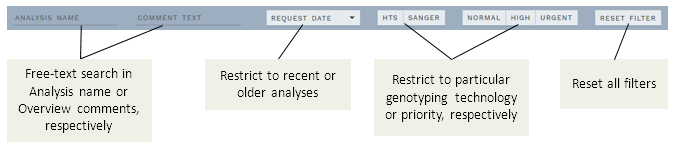
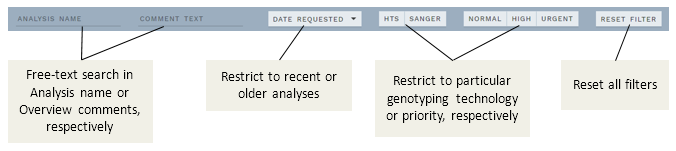
[docs] Minor changes for !420.

diff --git a/docs/manual/choosing-sample-variant.md b/docs/manual/choosing-sample-variant.md
@@ -83,7 +83,7 @@ Use the search fields and buttons in the top bar to quickly filter what is shown
 Filtering options include: 
 - Analysis name
 - Comment text (search OVERVIEW comments)
-- Request date (when the sample was imported into ELLA)
+- Date requested (when the sample was requested or imported into ELLA, depending on configuration)
 - Genotyping technology (HTS/Sanger)
 - Priority (Normal/High/Urgent)
 
